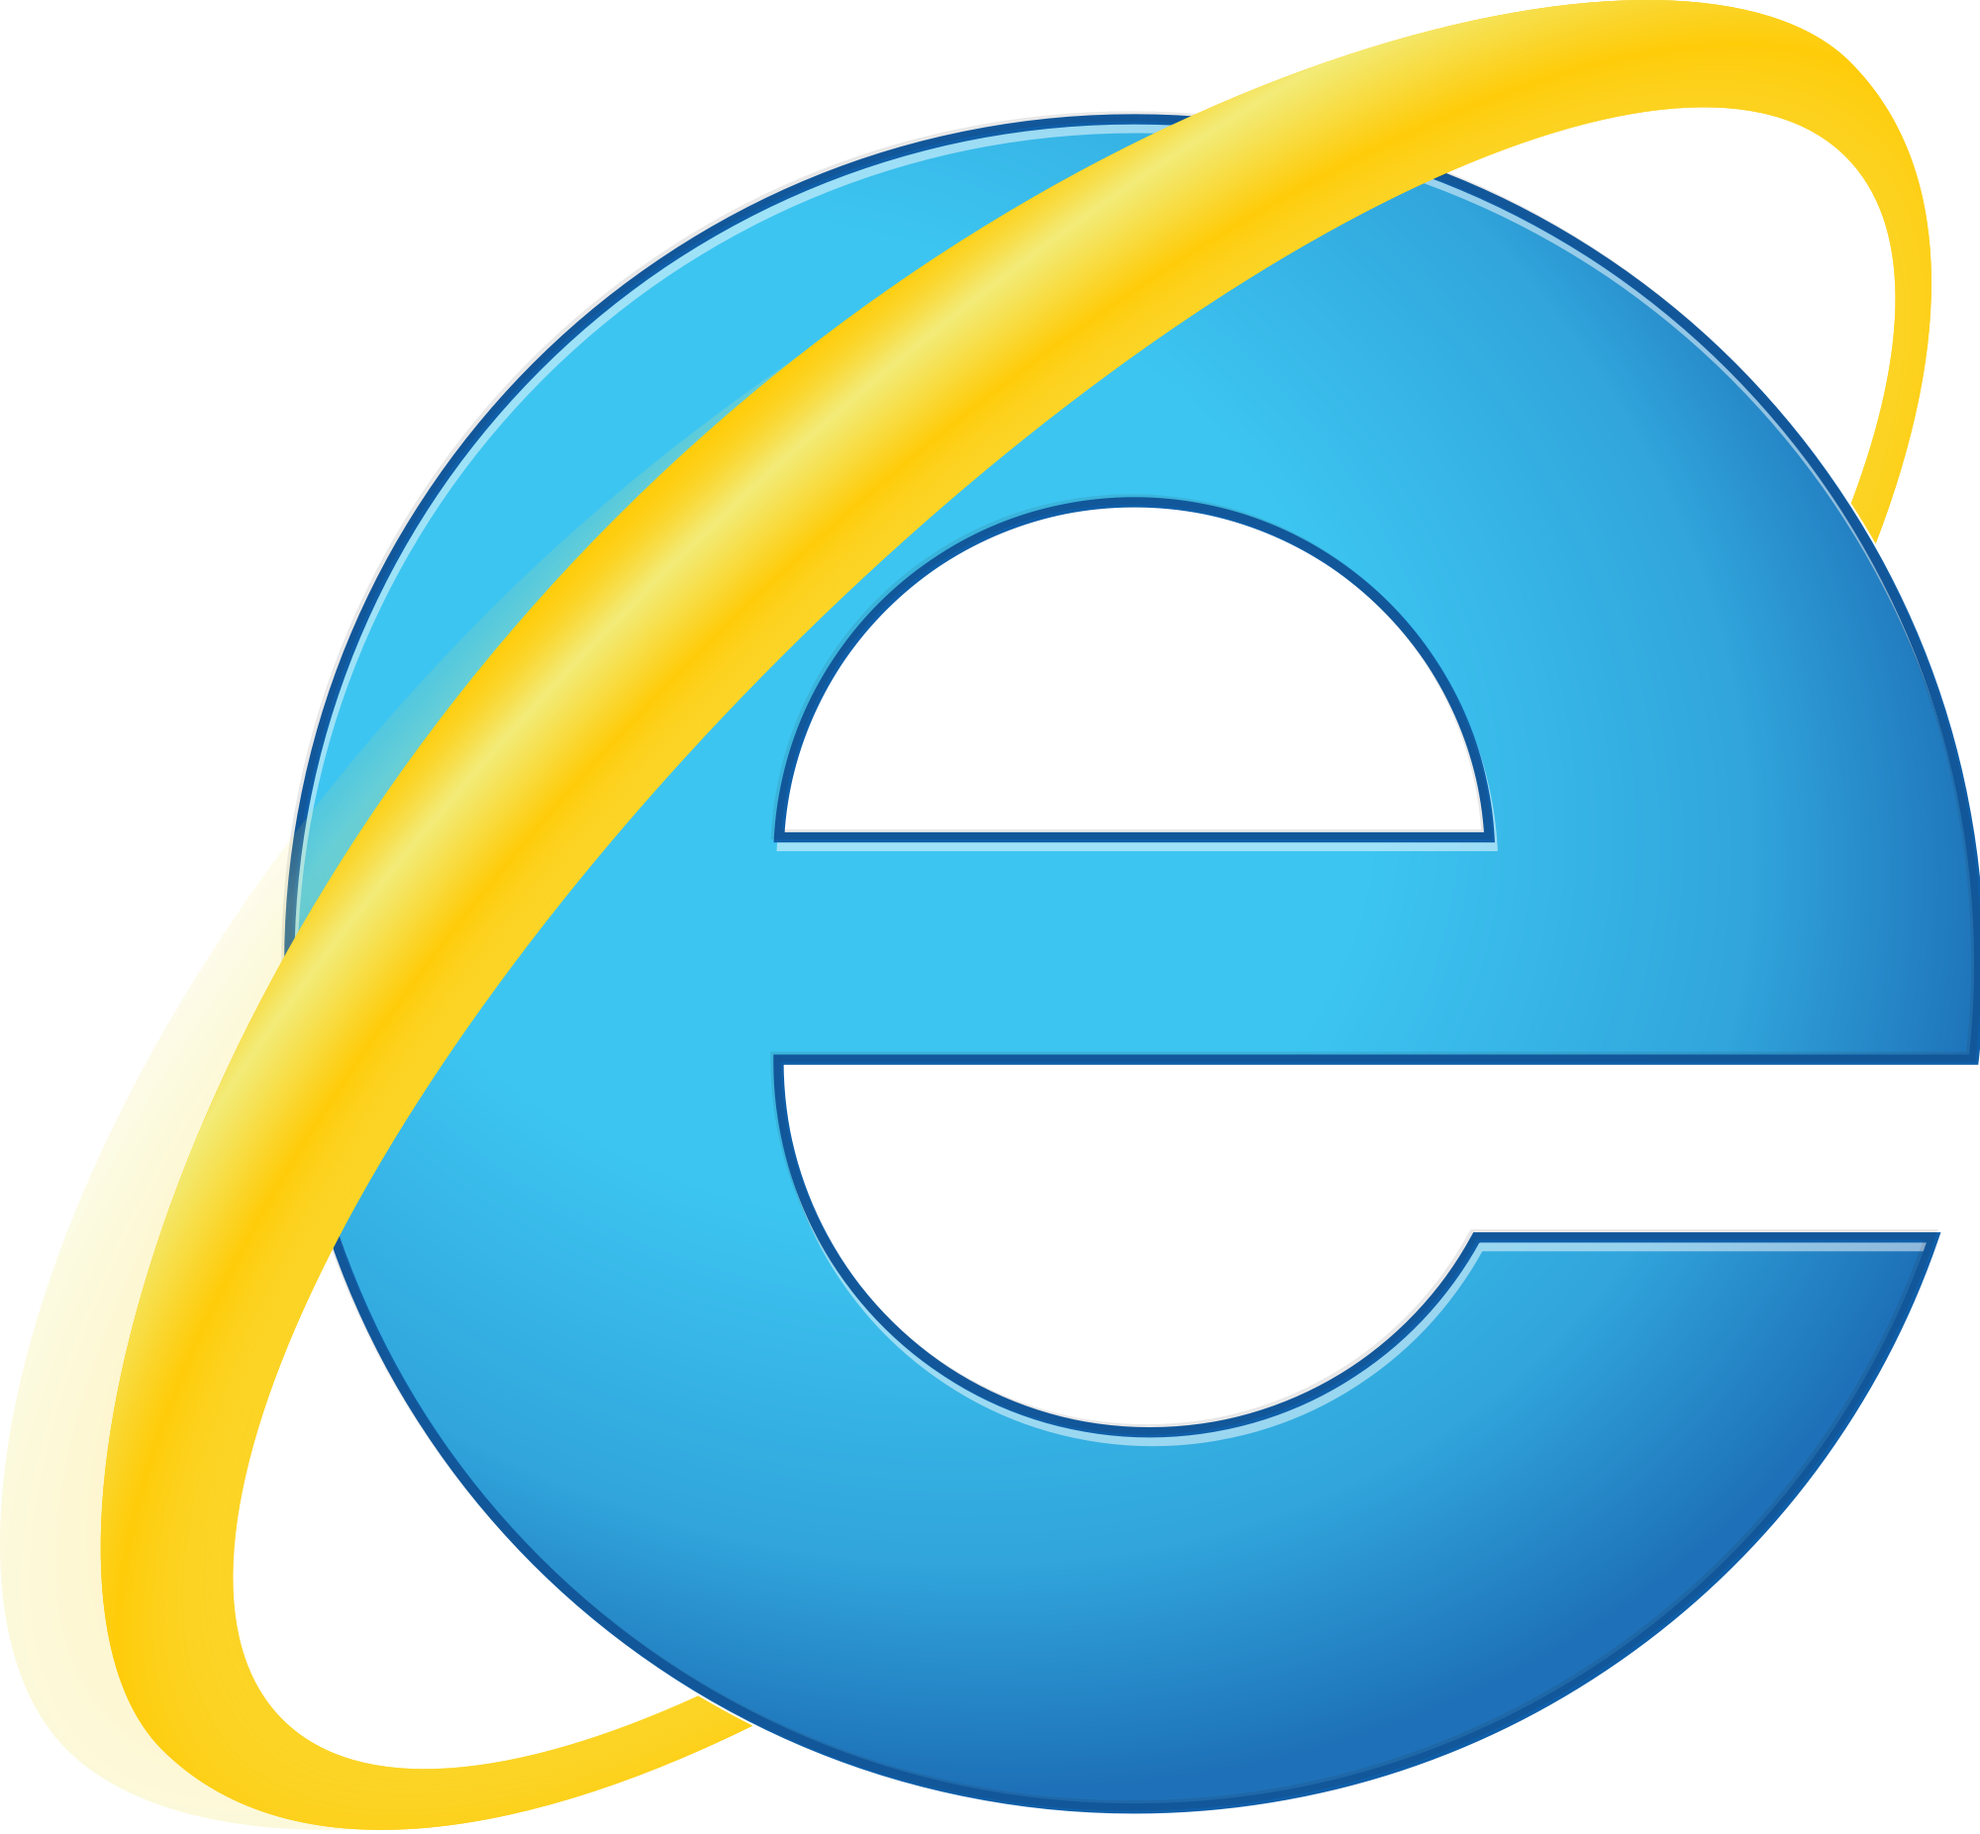
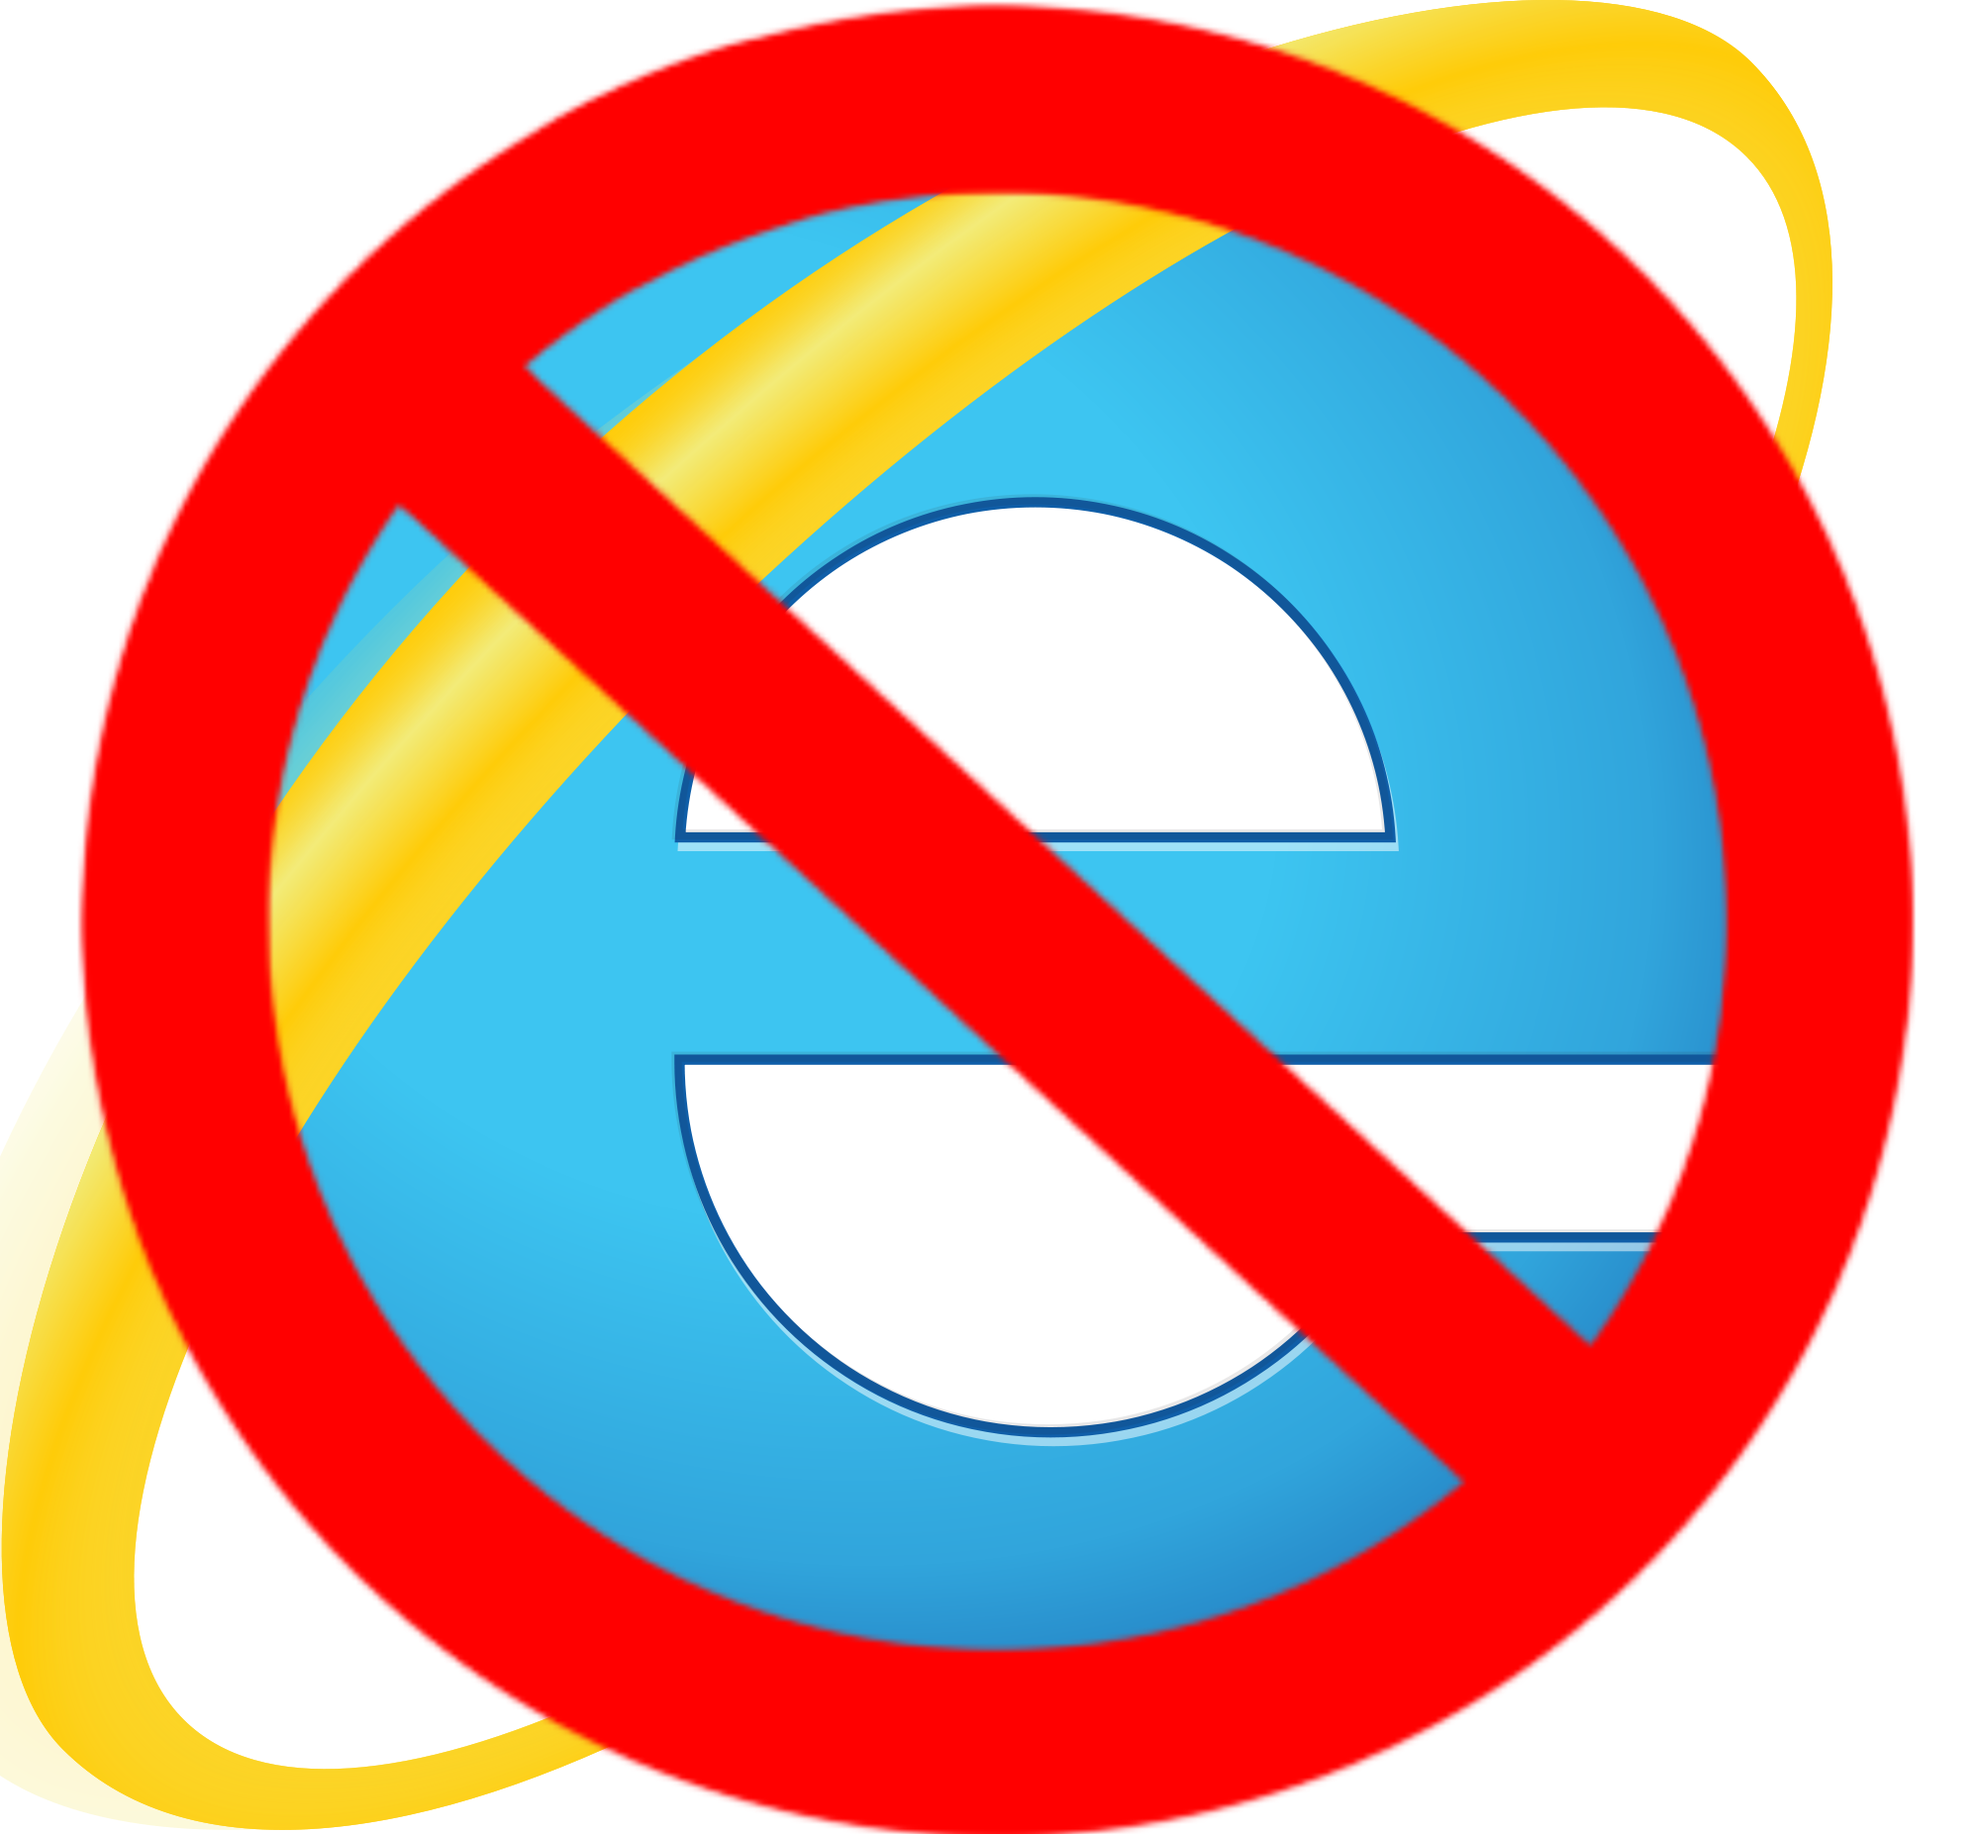
禁止IE

diff --git a/public/dontIE.html b/public/dontIE.html
@@ -6,17 +6,42 @@
     <meta http-equiv="X-UA-Compatible" content="IE=edge">
     <meta name="viewport" content="width=device-width, initial-scale=1.0">
     <title>IE😬😬😬😬😬</title>
+    <style>
+        body {
+            text-align: center;
+        }
 
+        #text,
+        .text {
+            display: inline-block;
+            font-size: 30px;
+            margin: 20px 0;
+            color: cornflowerblue;
+        }
+
+        .pic ,.pic2{
+            display: flex;
+            justify-content: center;
+        }
+
+        .pic img:nth-of-type(2) {
+            width: 300px;
+        }
+        .pic2 img{
+            width: 300px;
+        }
+    </style>
 </head>
 
 <body>
     <div id="text"></div>
-    <div><img src="<%= BASE_URL %>故IE.jpg" alt=""></div>
-    <div class="">请使用现代浏览器Chrome Firefox Safari</div>
+    <div class="pic"><img src="/故IE.jpg" alt=""><img src="/dontIE.png" alt=""></div>
+    <div class="text">请使用现代浏览器Chrome Firefox Safari</div>
+    <div class="pic2"><img src="/chrome.png" alt=""><img src="/firefox.png" alt=""><img src="/safari.png" alt=""></div>
     <script>
         let date = new Date();
         date = date.getFullYear();
-        document.getSelection("#text").innerHTML = "都" + date + "年了，不要在用IE啦"
+        document.getElementById("text").innerHTML = "🤡🤡都" + date + "年了，不要在用IE啦，没错说的就是你🤡🤡"
     </script>
 </body>
 

diff --git a/public/index.html b/public/index.html
@@ -17,7 +17,7 @@
   </noscript>
   <div id="app"></div>
   <script>
-    if(IEVersion() == -1){
+    if(IEVersion() != -1){
       window.open("/dontIE.html",'_self')
     }
     function IEVersion() {
